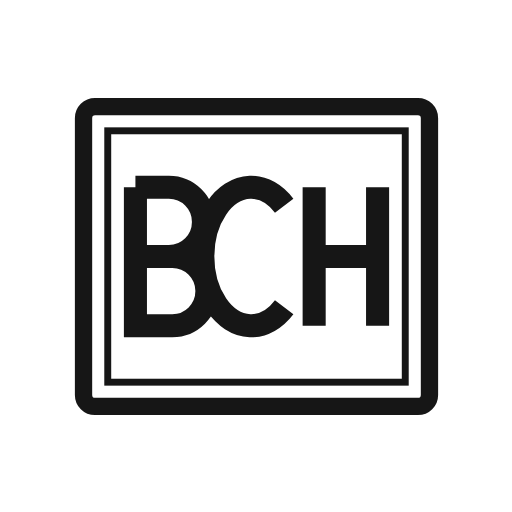
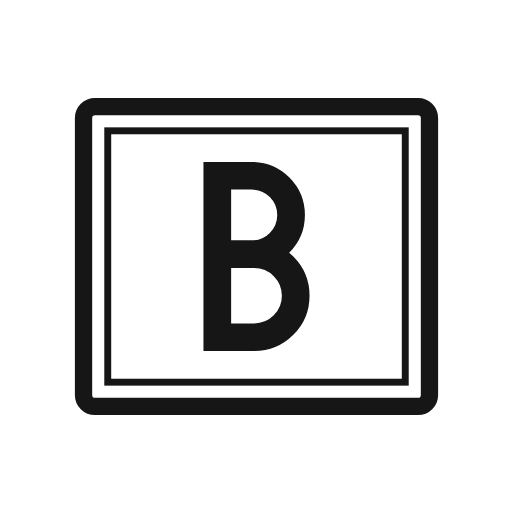
Ikon situs jadi huruf B
Mengikuti nama baru Barelang.co. Favicon 16 px digambar ulang per piksel,
monogram diganti, dan ikon iOS serta PWA dibuat ulang dari monogram.

Changed region(s): [[0.2188, 0.3125, 0.7812, 0.6875]]

diff --git a/docs/LANJUTKAN.md b/docs/LANJUTKAN.md
@@ -27,7 +27,7 @@ Folder `C:\proyek\batamcityhall` (salinan lama `Desktop\batam-city-hall` terting
 | Redirect situs lama | Siap di `deploy/situs-lama/`, belum dijalankan |
 | `public/tiles/batam.pmtiles` | Di-gitignore, 46 MB. Kalau hilang: `node scripts/siapkan-peta.mjs` (unduh dari cabang `aset-peta`, cepat) atau `node scripts/extract-basemap.mjs` (kurang dari 30 menit) |
 | Pratinjau | Tayang di https://batam.masbash.id, layanan Railway dari cabang `fase-1-fondasi`. Push ke cabang itu langsung men-deploy. `SITE_PRATINJAU=1`, jadi `robots.txt` menutup situs dari mesin pencari |
-| Nama situs | Barelang.co sejak 11 Nov 2026 (sebelumnya Batam City Hall). Domain barelang.co belum dibeli; alamat situs tetap dari `NEXT_PUBLIC_SITE_URL`. Ikon situs masih BCH, menunggu pemilik |
+| Nama situs | Barelang.co sejak 11 Nov 2026 (sebelumnya Batam City Hall). Domain barelang.co belum dibeli; alamat situs tetap dari `NEXT_PUBLIC_SITE_URL`. Ikon situs huruf B dalam bingkai (`app/icon.svg`, `public/logo/monogram.svg`, PNG dari `node scripts/build-aset.mjs`) |
 | Cabang lain | `paket-review` (bahan audit Claude Research), `aset-peta` (hanya `batam.pmtiles`). Keduanya orphan, jangan di-merge |
 | Sesi cloud | Node di cloud butuh `NODE_USE_ENV_PROXY=1 NODE_EXTRA_CA_CERTS=/root/.ccr/ca-bundle.crt` untuk menjangkau sumber data. Browser Playwright versi proyek tidak ada di cloud: pakai `executablePath: "/opt/pw-browsers/chromium"` lewat config lokal yang tidak di-commit |
 | Tes | `npm test`; `npm run build` lalu `npx playwright test --workers=3 --timeout=90000`. Matikan dulu `next start` lama di port 3100. Di Windows, menghentikan tugas latar tidak ikut mematikan proses `node` anaknya: cek port dan matikan prosesnya sebelum build, karena server lama yang masih hidup saat build bisa menyajikan halaman versi lama |

diff --git a/docs/CHANGELOG.md b/docs/CHANGELOG.md
@@ -7,8 +7,8 @@ Keputusan pemilik 11 November 2026 ("mohon ganti nama di website jadi barelang.c
 - `SITE_NAME` di `lib/site.ts` dan semua teks yang tampil memakai Barelang.co: kepala halaman, sampul beranda, kaki halaman, judul tab, manifest, RSS, data terstruktur, kartu bagikan, Tentang, Syarat, Privasi, Kontribusi, Kolofon, Newsletter, kotak Cari, Kartu Pos, poster Infografik, dan nama penulis "Redaksi Barelang.co".
 - Yang sengaja tidak berubah karena tidak tampil: awalan kelas `bch-`, nama paket dan repo, User-Agent ke BMKG dan RSS, alat internal, dan catatan riset.
 - Alamat situs tetap dari `NEXT_PUBLIC_SITE_URL`. Domain barelang.co belum dibeli, jadi belum ada yang diarahkan ke sana.
-- Ikon situs (`app/icon.svg`, `apple-icon.png`, `public/icon-*.png`) masih bertuliskan BCH. Menunggu pemilik.
-- **Pemeriksaan:** lint dan tipe bersih, unit 751 lulus, cek bahasa lulus, build berhasil, e2e `situs`, `rombak`, dan `langit-laut` 251 lulus (1 dilewati), tangkapan beranda, Tentang, Kartu Pos, dan Infografik di desktop dan ponsel.
+- **Ikon situs jadi huruf B** atas persetujuan pemilik, bingkai garis ganda tetap. `app/icon.svg` digambar ulang per piksel di grid 16 px (B tebal di tengah bingkai). `public/logo/monogram.svg` diganti, lalu `apple-icon.png` dan `public/icon-192.png`, `icon-512.png` dibuat ulang dengan `node scripts/build-aset.mjs`. Tanpa siluet Jembatan Barelang.
+- **Pemeriksaan:** lint dan tipe bersih, unit 751 lulus, cek bahasa lulus, build berhasil, e2e `situs`, `rombak`, dan `langit-laut` 251 lulus (1 dilewati), tangkapan beranda, Tentang, Kartu Pos, dan Infografik di desktop dan ponsel. Setelah ikon: build ulang berhasil, keempat ikon menjawab 200, tes PWA dan axe 34 lulus, pratinjau favicon 16 dan 32 px.
 
 ## 2026-11-09 · Peta sampul interaktif
 

diff --git a/docs/COVERAGE.md b/docs/COVERAGE.md
@@ -697,7 +697,7 @@ Aturan:
   - [x] components/site/SiteFooter.tsx, lib/site.ts · Disclaimer footer wajib + tagline penegas ("Balai warga, bukan balai kota" / "Loket informasi tidak resmi") {F1}
   - [-] menunggu pemilik: koordinat wordmark belum dicek dan EST. 2026 belum dijawab (PLAN butir 21); wordmark teks ada di strip navigasi · Opsi 1 wordmark arsip: "BATAM CITY HALL" Source Serif 4 smcp tracking 0,12em + baris mono "1°08′ U · 104°03′ T · EST. 2026" (koordinat perlu dicek) {F1}
   - [-] dicabut PEDOMAN 4 dan 5 (5 Nov 2026); sebelumnya: components/site/Emblem.tsx · Opsi 2 emblem stempel bulat: lingkaran garis ganda, mawar angin minimal, tulisan melingkar, satu warna {F1}
-  - [x] app/icon.svg · Opsi 3 monogram "BCH" dalam kartusis kecil untuk favicon, terbaca di 16 px {F1}
+  - [x] app/icon.svg (huruf B sejak 11 Nov 2026, nama situs Barelang.co) · Opsi 3 monogram "BCH" dalam kartusis kecil untuk favicon, terbaca di 16 px {F1}
   - [-] konteks, tidak perlu fitur: referensi semangat · Referensi semangat Cooper Hewitt; telusuri Fonts In Use/Brand New ("civic", "archive", "postal") {F1}
 - [-] aturan berlaku terus, dijaga lewat data/design/microcopy.json dan tinjauan teks tiap fase · 05 › 9. Nada tulisan (microcopy)
   - [-] aturan berlaku terus, dijaga lewat data/design/microcopy.json dan tinjauan teks tiap fase · 05 › Prinsip [A]
